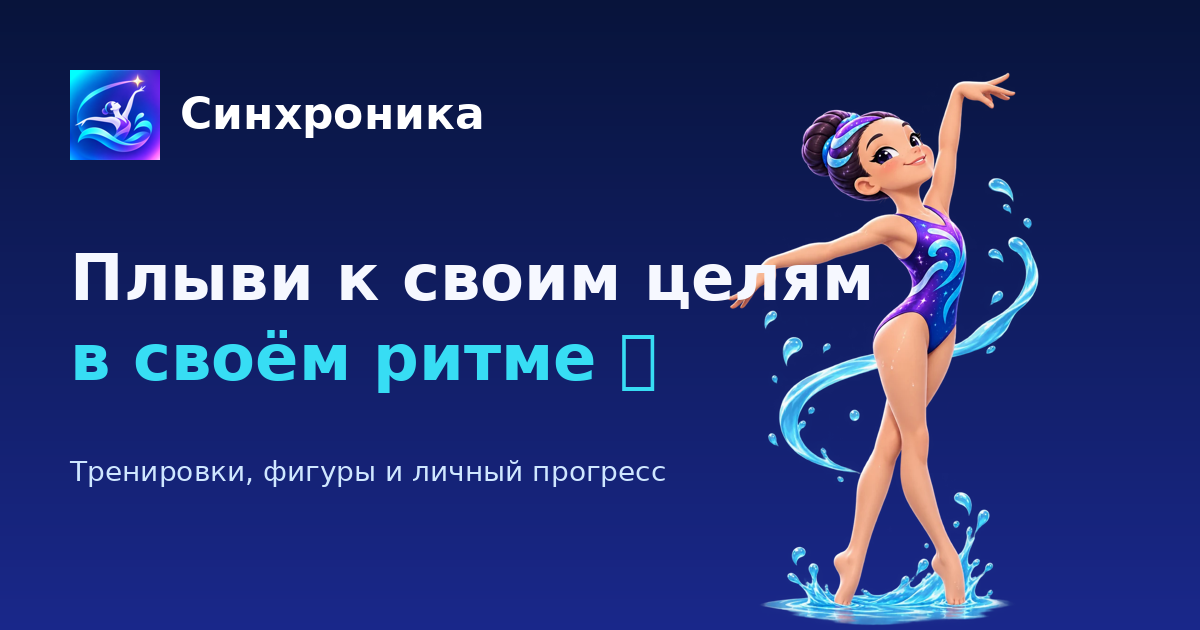
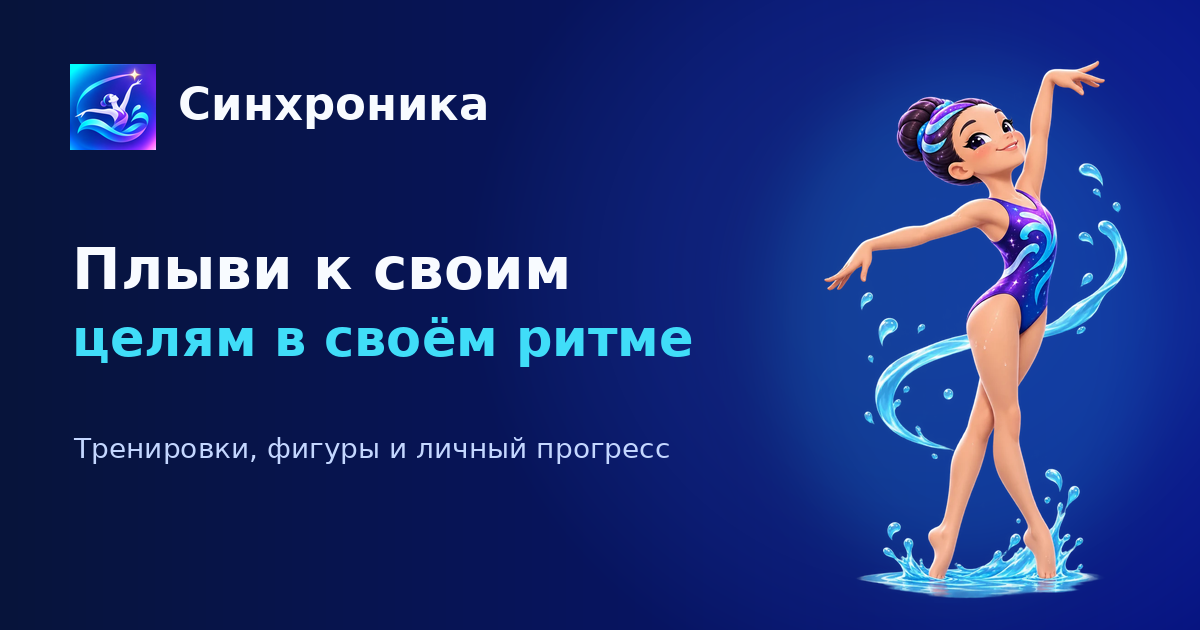
fix: keep share mascot and copy clear

diff --git a/src/features/settings/SettingsPage.tsx b/src/features/settings/SettingsPage.tsx
@@ -66,7 +66,7 @@ export function SettingsPage({ onBack }: SettingsPageProps) {
       <div><Label htmlFor="settings-rank">Спортивный разряд</Label><select id="settings-rank" aria-label="Спортивный разряд" className="mt-1 flex h-11 w-full rounded-md border bg-background px-3" value={draft.sportRank} onChange={(e) => update('sportRank', e.target.value)}>{SPORT_RANKS.map((rank) => <option key={rank}>{rank}</option>)}</select></div>
     </div><Button type="submit" className="mt-5 w-full">Сохранить профиль</Button></form>
     <section className="rounded-[var(--radius-xl)] border bg-card p-5 shadow-[var(--shadow-card)]"><h2 className="text-xl font-extrabold">Оформление</h2><Label htmlFor="settings-theme" className="mt-4 block">Тема оформления</Label><select id="settings-theme" aria-label="Тема оформления" className="mt-1 flex h-11 w-full rounded-md border bg-background px-3" value={theme} onChange={(e) => setTheme(e.target.value as ThemePreference)}><option value="system">Системная</option><option value="dark">Тёмная</option><option value="light">Светлая</option></select></section>
-    <section className="overflow-hidden rounded-[var(--radius-xl)] border bg-card shadow-[var(--shadow-card)]"><img src={`${import.meta.env.BASE_URL}onboarding/practice.webp`} alt="" className="h-44 w-full object-cover object-center"/><div className="p-5"><h2 className="text-xl font-extrabold">Поделиться Синхроникой</h2><p className="mt-2 text-sm text-muted-foreground">Плыви к своим целям в своём ритме 🌊</p><Button type="button" className="mt-4 w-full" onClick={() => void share()}><Share2 aria-hidden="true" />Поделиться приложением с друзьями</Button></div></section>
+    <section className="overflow-hidden rounded-[var(--radius-xl)] border bg-card shadow-[var(--shadow-card)]"><div className="h-56 bg-[radial-gradient(circle_at_50%_35%,hsl(var(--primary)/0.2),transparent_62%)] p-3"><img src={`${import.meta.env.BASE_URL}onboarding/practice.webp`} alt="" className="h-full w-full object-contain object-center"/></div><div className="p-5"><h2 className="text-xl font-extrabold">Поделиться Синхроникой</h2><p className="mt-2 text-sm text-muted-foreground">Плыви к своим целям в своём ритме 🌊</p><Button type="button" className="mt-4 w-full" onClick={() => void share()}><Share2 aria-hidden="true" />Поделиться приложением с друзьями</Button></div></section>
     <section className="rounded-[var(--radius-xl)] border bg-card p-5 shadow-[var(--shadow-card)]"><h2 className="text-xl font-extrabold">Данные</h2><p className="mt-2 text-sm leading-6 text-muted-foreground">Экспорт — это резервная копия для сохранения данных или переноса на другое устройство. Она не отправляется разработчикам.</p><Button type="button" variant="outline" className="mt-4 w-full" onClick={exportData}><Download aria-hidden="true" />Экспортировать данные</Button><AlertDialog><AlertDialogTrigger asChild><Button type="button" variant="destructive" className="mt-3 w-full"><Trash2 aria-hidden="true" />Удалить данные с устройства</Button></AlertDialogTrigger><AlertDialogContent><AlertDialogHeader><AlertDialogTitle>Удалить все данные?</AlertDialogTitle><AlertDialogDescription>Профиль, идеи и настройки на этом устройстве будут удалены без возможности восстановления.</AlertDialogDescription></AlertDialogHeader><AlertDialogFooter><AlertDialogCancel>Отмена</AlertDialogCancel><AlertDialogAction onClick={removeAll}>Удалить мои данные</AlertDialogAction></AlertDialogFooter></AlertDialogContent></AlertDialog></section>
     <section className="rounded-[var(--radius-xl)] border bg-card p-5 shadow-[var(--shadow-card)]"><h2 className="text-xl font-extrabold">Авторы</h2><p className="mt-2 text-sm text-muted-foreground">Насута Павел · Насута Таисия</p><a href="https://t.me/pavelnasuta" target="_blank" rel="noreferrer" className="mt-4 inline-flex min-h-11 items-center gap-2 text-sm font-bold text-primary underline-offset-4 hover:underline"><Send className="h-4 w-4" aria-hidden="true"/>Предложить доработку</a></section>
     {message ? <p role="status" className="text-center text-sm text-muted-foreground">{message}</p> : null}

diff --git a/src/features/settings/SettingsPage.test.tsx b/src/features/settings/SettingsPage.test.tsx
@@ -19,4 +19,5 @@ it('updates athlete profile and links feedback to Pavel', async () => {
   await user.click(screen.getByRole('button', { name: 'Сохранить профиль' }))
   expect(useAthleteProfileStore.getState().profile).toMatchObject({ name: 'Маша', sportRank: 'КМС' })
   expect(screen.getByRole('link', { name: 'Предложить доработку' })).toHaveAttribute('href', 'https://t.me/pavelnasuta')
+  expect(screen.getByRole('presentation')).toHaveClass('object-contain')
 })

diff --git a/scripts/generate-share-image.py b/scripts/generate-share-image.py
@@ -1,0 +1,57 @@
+from pathlib import Path
+
+from PIL import Image, ImageDraw, ImageFilter, ImageFont
+
+ROOT = Path(__file__).resolve().parents[1]
+OUTPUT = ROOT / "public/social/sinhronica-share.png"
+ICON = ROOT / "public/icons/sinhronica-v1-icon-512.png"
+MASCOT = ROOT / "public/onboarding/practice.webp"
+
+WIDTH, HEIGHT = 1200, 630
+FONT_BOLD = "/usr/share/fonts/truetype/dejavu/DejaVuSans-Bold.ttf"
+FONT_REGULAR = "/usr/share/fonts/truetype/dejavu/DejaVuSans.ttf"
+
+
+def font(path: str, size: int) -> ImageFont.FreeTypeFont:
+    return ImageFont.truetype(path, size)
+
+
+def main() -> None:
+    # Fixed zones: copy stays within x=70..720; mascot stays within x=770..1160.
+    image = Image.new("RGB", (WIDTH, HEIGHT), "#07143B")
+    pixels = image.load()
+    assert pixels is not None
+    for y in range(HEIGHT):
+        for x in range(WIDTH):
+            blue = int(59 + 70 * (x / WIDTH))
+            glow = max(0, 1 - (((x - 930) / 470) ** 2 + ((y - 275) / 440) ** 2))
+            pixels[x, y] = (7 + int(10 * glow), 20 + int(18 * glow), blue + int(32 * glow))
+
+    # A deliberately separate, soft visual zone behind the mascot.
+    glow = Image.new("RGBA", (WIDTH, HEIGHT), (0, 0, 0, 0))
+    glow_draw = ImageDraw.Draw(glow)
+    glow_draw.ellipse((745, 35, 1190, 600), fill=(34, 211, 238, 38))
+    image = Image.alpha_composite(image.convert("RGBA"), glow.filter(ImageFilter.GaussianBlur(42)))
+    draw = ImageDraw.Draw(image)
+
+    icon = Image.open(ICON).convert("RGBA")
+    icon.thumbnail((86, 86), Image.Resampling.LANCZOS)
+    image.alpha_composite(icon, (70, 64))
+    draw.text((178, 78), "Синхроника", font=font(FONT_BOLD, 45), fill="#F8FBFF")
+    draw.text((72, 235), "Плыви к своим", font=font(FONT_BOLD, 58), fill="#F8FBFF")
+    draw.text((72, 308), "целям в своём ритме", font=font(FONT_BOLD, 51), fill="#40DDF8")
+    draw.text((74, 432), "Тренировки, фигуры и личный прогресс", font=font(FONT_REGULAR, 28), fill="#C4D7FF")
+
+    mascot = Image.open(MASCOT).convert("RGBA")
+    # Preserve the full artwork inside the dedicated right-side zone.
+    mascot.thumbnail((380, 545), Image.Resampling.LANCZOS)
+    mascot_x = 790 + (380 - mascot.width) // 2
+    mascot_y = 58 + (545 - mascot.height) // 2
+    image.alpha_composite(mascot, (mascot_x, mascot_y))
+
+    OUTPUT.parent.mkdir(parents=True, exist_ok=True)
+    image.convert("RGB").save(OUTPUT, "PNG", optimize=True)
+
+
+if __name__ == "__main__":
+    main()
